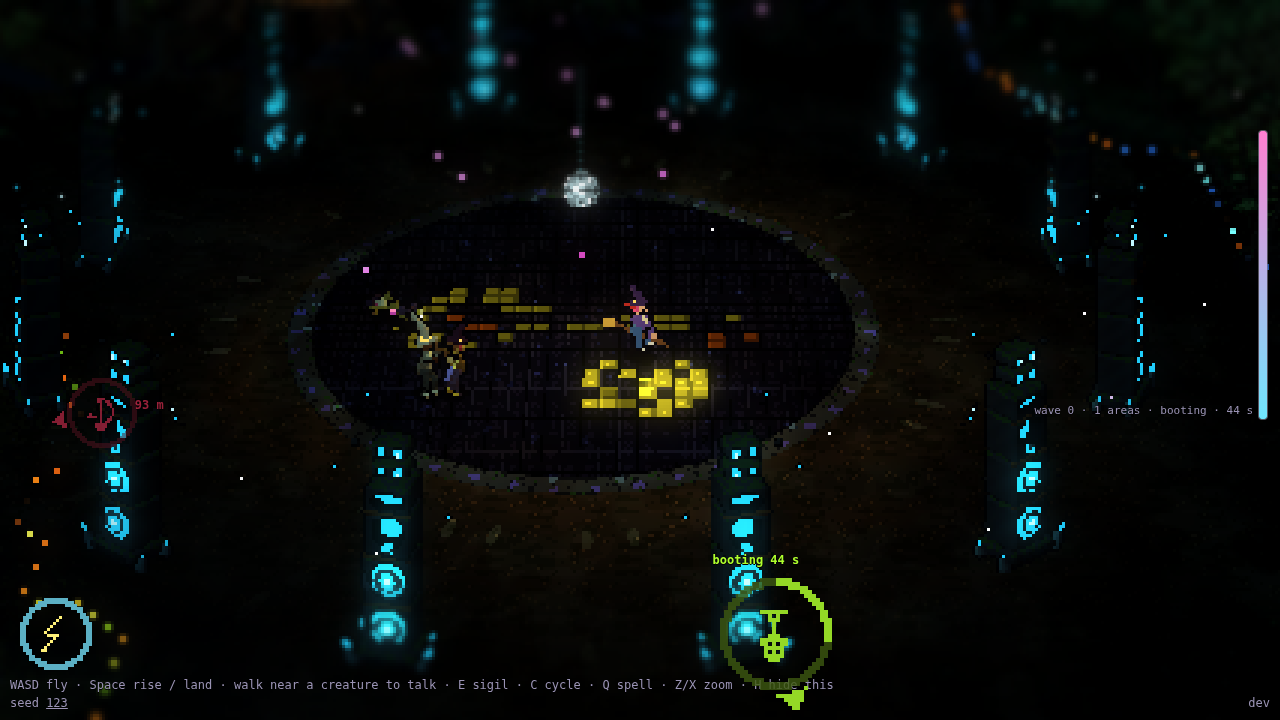
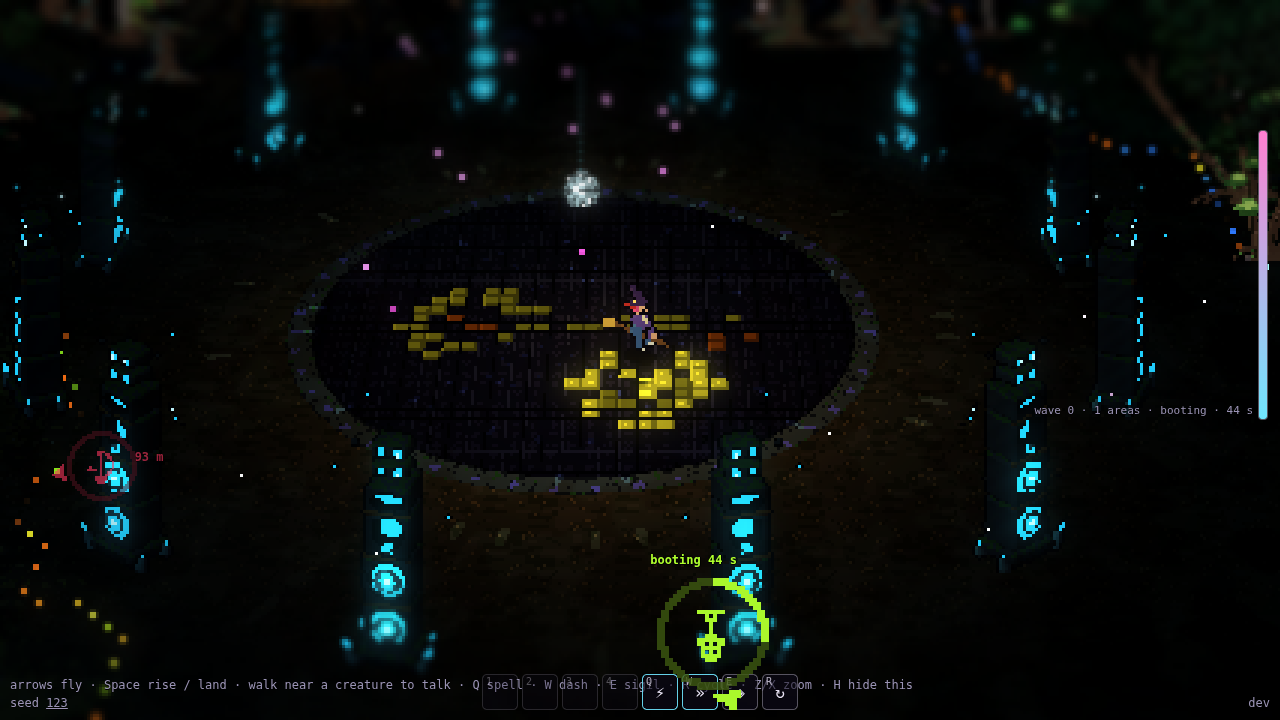
Party witches: twirl and broom limbo (#41), chat bubbles, arriving from just off-screen; hanging party objects
The twirl (her partner twirled) and the broom limbo (holder and helper hold the
bar, a third free witch shuffles under it end to end every limboPass seconds)
join the pair activities; partners line up by the lead's pose. Chatting party
witches show small emoji bubbles, taking turns. They fly in from flyFrom 40 m
over 4 s, just off-screen. Party objects: the art's hanging pieces (lanterns,
a jar, fairy lights, a mirror ball) hang from a branch point in the nearest
crown by their hang anchor, as the caught balloon now does too, partyObjects.
hanging per area; pointLight rgb "neon" takes the piece's own neon. The art
already puts brooms down for the dances.

Claude-Session: https://claude.ai/code/session_01MR6jyHx6mcGYyfzATvhXK3

diff --git a/src/rules/partyWitches.ts b/src/rules/partyWitches.ts
@@ -22,7 +22,7 @@ export const ACTIVITIES: Activity[] = ["dance", "pair", "chat", "drink", "run", 
 /** The art's poses for each activity (art/witch.js WITCH_FOOT_POSES). */
 export const POSES: Record<Activity, string[]> = {
   dance: ["twoStep", "bounce", "shuffle", "spin", "headbang", "jump"],
-  pair: ["dancePair", "hug", "highFive", "holdHands", "conga", "drink"],
+  pair: ["dancePair", "hug", "highFive", "holdHands", "conga", "drink", "twirl", "limboHold"],
   chat: ["laugh"],
   drink: ["drink"],
   run: ["run"],
@@ -55,9 +55,14 @@ export interface PartyWitch {
   partner: number | null;
   /** In a pair, the one who leads (walks; the other keeps beside her). */
   lead: boolean;
+  /** The broom limbo's dancer: under the bar held by her partner (the holder) and the holder's helper. */
+  third?: boolean;
   /** Where she's heading on foot (running, wandering hand in hand). */
   tx: number; tz: number;
 }
+
+/** What the partner does in a pair whose lead does this (art/witch.js WITCH_PAIRS partnerPose). */
+export const PARTNER_POSE: Record<string, string> = { twirl: "twirled", limboHold: "limboHelp" };
 
 /** A player on foot near the floor, idling into the party. */
 export interface PlayerIdle { still: number; activity: Activity | null; pose: string | null; partner: number | null; until: number; facing: 1 | -1 }
@@ -115,8 +120,17 @@ function begin(s: PartyWitches, w: PartyWitch, time: number, floor: Floor, t: Tu
     for (const o of s.list) if (o !== w && free(o)) { const d = Math.hypot(o.x - w.x, o.z - w.z); if (d < bd) { bd = d; best = o; } }
     if (!best) a = "dance";
     else {
-      const pose = pick(r, POSES[a]), until = time + duration(r, t, a);
-      for (const [m, lead] of [[w, true], [best, false]] as const) Object.assign(m, { activity: a, pose, until, partner: (lead ? best : w).id, lead });
+      let pose = pick(r, POSES[a]);
+      const until = time + duration(r, t, a);
+      // The broom limbo needs a third witch to dance under the bar; without one, they dance together.
+      let dancer: PartyWitch | null = null;
+      if (pose === "limboHold") {
+        let dd = P.pairRange;
+        for (const o of s.list) if (o !== w && o !== best && free(o)) { const d = Math.hypot(o.x - w.x, o.z - w.z); if (d < dd) { dd = d; dancer = o; } }
+        if (!dancer) pose = "dancePair";
+      }
+      for (const [m, lead] of [[w, true], [best, false]] as const) Object.assign(m, { activity: a, pose: lead ? pose : PARTNER_POSE[pose] ?? pose, until, partner: (lead ? best : w).id, lead, third: false });
+      if (dancer) Object.assign(dancer, { activity: a, pose: "limbo", until, partner: w.id, lead: false, third: true, facing: w.facing, away: false, since: time });
       // Face each other; holding hands they stand side by side facing us; a conga is a line, same way round.
       w.facing = best.x >= w.x ? 1 : -1;
       best.facing = pose === "conga" ? w.facing : (w.facing === 1 ? -1 : 1);
@@ -132,6 +146,8 @@ function begin(s: PartyWitches, w: PartyWitch, time: number, floor: Floor, t: Tu
 /** Let go of a pair (both pick something new when it's their turn). */
 function release(s: PartyWitches, w: PartyWitch, time: number): void {
   if (w.partner === null) return;
+  // A limbo holder lets her dancer go too.
+  for (const o of s.list) if (o.third && o.partner === w.id) { o.partner = null; o.third = false; o.until = Math.min(o.until, time); }
   const o = s.list.find(p => p.id === w.partner);
   if (o && o.partner === w.id) { o.partner = null; o.until = Math.min(o.until, time); }
   w.partner = null;
@@ -140,7 +156,7 @@ function release(s: PartyWitches, w: PartyWitch, time: number): void {
 /** Where a partner stands beside the one who leads. */
 export function pairOffset(pose: string, facing: 1 | -1, t: Tuning): { dx: number; dz: number } {
   const g = t.partyWitches.pairGap;
-  return pose === "conga" ? { dx: -facing * g * 1.1, dz: 0.05 } : { dx: facing * g, dz: 0 };
+  return pose === "conga" ? { dx: -facing * g * 1.1, dz: 0.05 } : pose === "limboHold" ? { dx: facing * g * 2.6, dz: 0 } : { dx: facing * g, dz: 0 };
 }
 
 /**
@@ -185,6 +201,12 @@ export function stepPartyWitches(s: PartyWitches, areas: { key: string; x: numbe
       const ang = time * P.lapSpeed + w.id;
       w.x = floor.x + Math.cos(ang) * floor.radius * 0.6; w.z = floor.z + Math.sin(ang) * floor.radius * 0.6;
       w.y = P.flyHeight * 0.7 * Math.max(0, up); w.facing = -Math.sin(ang) >= 0 ? 1 : -1; w.away = Math.cos(ang) > 0.5;
+    } else if (w.third && w.partner !== null) {
+      // The limbo dancer shuffles along under the bar, from the holder's end to the helper's and round again.
+      const o = s.list.find(p => p.id === w.partner);
+      if (!o || o.pose !== "limboHold") { w.partner = null; w.third = false; continue; }
+      const off = pairOffset("limboHold", o.facing, t), k = ((time - w.since) / P.limboPass) % 1;
+      w.x = o.x + off.dx * (0.15 + 0.7 * k); w.z = o.z + 0.35; w.facing = o.facing;
     } else if (w.partner !== null && w.partner >= 0) {
       const o = s.list.find(p => p.id === w.partner);
       if (!o || o.partner !== w.id) { w.partner = null; continue; }
@@ -224,9 +246,9 @@ export function stepPartyWitches(s: PartyWitches, areas: { key: string; x: numbe
       for (const o of s.list) if (free(o)) { const d = Math.hypot(o.x - p.x, o.z - p.z); if (d < bd) { bd = d; best = o; } }
       if (!best) a = "dance";
       else {
-        const pose = a === "pair" ? pick(r, POSES.pair.filter(q => q !== "holdHands" && q !== "conga")) : "laugh", until = time + duration(r, t, a);
+        const pose = a === "pair" ? pick(r, POSES.pair.filter(q => q !== "holdHands" && q !== "conga" && q !== "limboHold")) : "laugh", until = time + duration(r, t, a);
         I.facing = best.x >= p.x ? 1 : -1;
-        Object.assign(best, { activity: a, pose, until, partner: -1 - i, lead: false, facing: I.facing === 1 ? -1 : 1, away: false });
+        Object.assign(best, { activity: a, pose: PARTNER_POSE[pose] ?? pose, until, partner: -1 - i, lead: false, facing: I.facing === 1 ? -1 : 1, away: false });
         Object.assign(I, { activity: a, pose, until, partner: best.id });
         return;
       }

diff --git a/src/render/partyWitches.ts b/src/render/partyWitches.ts
@@ -17,12 +17,16 @@ import { SPRITE_UNIFORMS, SpriteBatch, type SpriteInstance } from "./sprites";
 /** How many different looks are drawn: party witches beyond that share them (each look is a set of sprites to draw). */
 export const LOOKS = 12;
 const PAIRS = Art.WITCH_PAIRS as Record<string, { meet: string; partner?: string; mirror: boolean; frame?: number }>;
-const DANCE = new Set(["twoStep", "bounce", "shuffle", "spin", "headbang", "jump", "dancePair", "conga"]);
+const DANCE = new Set(["twoStep", "bounce", "shuffle", "spin", "headbang", "jump", "dancePair", "conga", "twirl", "twirled", "limbo"]);
+const CHAT = ["🎉", "😆", "🍹", "💃", "🥳", "😂", "🎶", "✨", "🍕", "😎", "🙌", "🤭"];
 
 type WitchArt = PartyWitchArt & { atlas: Atlas };
 
 export class PartyWitchView {
   private batches = new Map<string, SpriteBatch>();
+  /** The chats' emoji bubbles (HTML over the canvas, lighter than her own conversations). */
+  private bubblePool: HTMLDivElement[] = [];
+  private v = new THREE.Vector3();
   /** Whether our witch is drawn here this frame (idling in a party pose), so the view leaves her out. */
   herIdle = false;
 
@@ -42,9 +46,32 @@ export class PartyWitchView {
     return fr[Math.floor(time * fps + phase * 7) % n];
   }
 
+  /** The chats: a small emoji over whoever's turn it is in each chatting pair, taking turns. */
+  bubbles(g: Game, time: number, camera: THREE.Camera, width: number, height: number): void {
+    let n = 0;
+    for (const w of g.partyWitches.list) {
+      if (w.state !== "floor" || w.activity !== "chat" || w.partner === null || n >= 8) continue;
+      const turn = Math.floor(time / 1.4 + (w.lead ? 0 : 0.5));
+      if ((turn + (w.lead ? 0 : 1)) % 2) continue; // their turn or their partner's
+      let el = this.bubblePool[n];
+      if (!el) {
+        el = document.createElement("div");
+        el.style.cssText = "position:absolute;transform:translate(-50%,-100%);font-size:13px;padding:1px 4px;border-radius:8px;background:rgba(255,255,255,.55);pointer-events:none;z-index:4";
+        document.body.appendChild(el); this.bubblePool.push(el);
+      }
+      this.v.set(w.x, 2.4, w.z).project(camera);
+      el.style.left = `${((this.v.x + 1) / 2) * width}px`; el.style.top = `${((1 - this.v.y) / 2) * height}px`;
+      const e = CHAT[(turn * 7 + w.id * 3) % CHAT.length];
+      if (el.textContent !== e) el.textContent = e;
+      el.style.display = this.v.z < 1 ? "" : "none";
+      n++;
+    }
+    for (let i = n; i < this.bubblePool.length; i++) this.bubblePool[i].style.display = "none";
+  }
+
   update(g: Game, time: number, visible: (x: number, z: number, w: number, h: number) => boolean): void {
     const per = new Map<string, { art: WitchArt; list: SpriteInstance[] }>(), bpm = g.tuning.beat.bpm, bt = beatTime(g.beat, time), R = SPRITE_UNIFORMS.uRight.value;
-    const placed = new Map<number, { x: number; z: number; frame: number; art: WitchArt; flip: boolean }>();
+    const placed = new Map<number, { x: number; z: number; frame: number; art: WitchArt; flip: boolean; pose: string }>();
     const put = (key: string, art: WitchArt, inst: SpriteInstance) => { let e = per.get(key); if (!e) per.set(key, (e = { art, list: [] })); e.list.push(inst); };
     const lookOf = (w: PartyWitch) => this.assets.partyWitchArt(w.seed % LOOKS);
     // Leads first, so a partner can line up with her.
@@ -59,7 +86,8 @@ export class PartyWitchView {
       else {
         fi = this.frameOf(art, w.pose, time, bpm, (w.id % 4) * 0.25, bt);
         // A partner lines up with her lead: their meeting anchors on the same pixel.
-        const pair = PAIRS[w.pose], lead = w.partner !== null && w.partner >= 0 && !w.lead ? placed.get(w.partner) : undefined;
+        // (By the lead's pose: a partner's own may differ: twirled, limboHelp.)
+        const lead = w.partner !== null && w.partner >= 0 && !w.lead && !w.third ? placed.get(w.partner) : undefined, pair = lead ? PAIRS[lead.pose] : undefined;
         if (pair && lead) {
           fi = this.frameOf(art, w.pose, time, bpm, 0, bt); // in step with her
           const la = art.anchors[lead.frame] ? lead : null, A = la ? lead.art.anchors[lead.frame]?.[pair.partner ?? pair.meet] : undefined, B = art.anchors[fi]?.[pair.meet];
@@ -72,7 +100,7 @@ export class PartyWitchView {
         }
       }
       const f = art.atlas.frames[fi];
-      placed.set(w.id, { x, z, frame: fi, art, flip });
+      placed.set(w.id, { x, z, frame: fi, art, flip, pose: w.pose });
       if (!visible(x, z, f.w * this.mpp, f.h * this.mpp)) continue;
       put(`pw-${w.seed % LOOKS}`, art, { x, y: w.y, z, frame: f, flip });
     }

diff --git a/src/rules/partyDressing.ts b/src/rules/partyDressing.ts
@@ -5,6 +5,7 @@
 // mirror ball stand on their poles); point lights from campfires and lanterns only, a few per area.
 // Everything is seeded from the area's cell, so it's the same each time. No drawing here.
 import { PARTY_BY_ID, PARTY_CLUSTERS, PARTY_LIGHT_NEONS, PARTY_OBJECTS } from "../../art/party.js";
+import { NEON } from "../../art/sigils.js";
 import type { ForestMap } from "./map";
 
 import type { Cell } from "./partition";
@@ -30,12 +31,16 @@ export interface Dressing {
   loose: Placed[];
   /** An escaped balloon caught up in a crown near here (the view hangs it from the nearest tree). */
   caught: Placed | null;
+  /** Lanterns, a jar, fairy lights or a mirror ball hanging from the trees near here (the view
+   *  hangs each from a branch point in the nearest tree's crown by its hang anchor). */
+  hanging: Placed[];
   /** The pieces whose light is real (campfires and lanterns: at most partyObjects.lightsPerArea), by their ref and place. */
   lights: Placed[];
 }
 
 /** Each piece that can be a loose one. */
 const POOL = DEFS.filter(d => (d.cls === "litter" || d.cls === "small" || d.cls === "balloon") && !d.hang);
+const HANGING = DEFS.filter(d => d.hang && d.cls !== "balloon" && d.id !== "balloon-caught");
 const SETS = DEFS.filter(d => d.cls === "set");
 
 /** A ref for a piece, its neon and balloons picked at random (Ed: random per placement). */
@@ -72,7 +77,7 @@ export function dressingOf(map: ForestMap, cell: Cell, t: Tuning): Dressing {
     return null;
   };
   const between = ([lo, hi]: number[]) => lo + Math.floor(r() * (hi - lo + 1));
-  const out: Dressing = { clusters: [], loose: [], caught: null, lights: [] };
+  const out: Dressing = { clusters: [], loose: [], caught: null, hanging: [], lights: [] };
   for (let i = 0, n = between(P.clusters); i < n; i++) {
     const s = spotFor(4);
     if (s) out.clusters.push({ id: PARTY_CLUSTERS[Math.floor(r() * PARTY_CLUSTERS.length)].id, ...s, mirror: r() < 0.5 });
@@ -82,9 +87,11 @@ export function dressingOf(map: ForestMap, cell: Cell, t: Tuning): Dressing {
     const s = spotFor(0.6, 0.05, 0.5);
     if (s) out.loose.push({ ref: refFor(pool[Math.floor(r() * pool.length)], r), ...s, flip: r() < 0.5 });
   }
+  const hangs = HANGING.filter(d => !t.partyObjects.exclude.includes(d.id));
+  for (let i = 0, n = hangs.length ? between(P.hanging) : 0; i < n; i++) { const s = spotFor(2, 0.1, 0.5); if (s) out.hanging.push({ ref: refFor(hangs[Math.floor(r() * hangs.length)], r), ...s, flip: r() < 0.5 }); }
   if (r() < P.caughtChance) { const s = spotFor(1, 0.2, 0.55); if (s) out.caught = { ref: `party:balloon-caught~${PALETTES[Math.floor(r() * PALETTES.length)]}`, ...s, flip: r() < 0.5 }; }
   // Real lights: the loose campfires and lanterns first (the clusters' own are added by the view, which knows their layout), at most lightsPerArea.
-  for (const p of out.loose) { const def = partyDef(p.ref); if (def && (def.pointLight || LANTERNS.has(def.id)) && !def.cold && out.lights.length < P.lightsPerArea) out.lights.push(p); }
+  for (const p of [...out.loose, ...out.hanging]) { const def = partyDef(p.ref); if (def && (def.pointLight || LANTERNS.has(def.id)) && !def.cold && out.lights.length < P.lightsPerArea) out.lights.push(p); }
   return out;
 }
 
@@ -92,7 +99,11 @@ export function dressingOf(map: ForestMap, cell: Cell, t: Tuning): Dressing {
 export function lightOf(ref: string, t: Tuning): { rgb: number[]; radius: number; height: number } | null {
   const def = partyDef(ref);
   if (!def || def.cold) return null;
-  if (def.pointLight) return def.pointLight;
+  if (def.pointLight) {
+    // "neon": the light of the neon this one was baked in.
+    const rgb = def.pointLight.rgb as unknown;
+    return rgb === "neon" ? { ...def.pointLight, rgb: (NEON as Record<string, number[]>)[ref.split("@")[1]?.split("~")[0] ?? "pink"] ?? NEON.pink } : def.pointLight;
+  }
   return LANTERNS.has(def.id) ? { rgb: [255, 186, 96], radius: t.partyObjects.lanternReach, height: 1.4 } : null;
 }
 

diff --git a/src/render/artBuild.ts b/src/render/artBuild.ts
@@ -164,7 +164,7 @@ export type ArtJob = { kind: "type"; id: number; style: Style; seed: number; K: 
   | { kind: "partyObjects"; id: string; style: Style };
 
 /** The party objects in their atlas, by ref ("party:<id>[@<neon>][~<palette>]"): frames (more than one: animated), ground point, decal; and each cluster's layout. */
-export interface PartyArt { pieces: Record<string, { frames: number[]; originX: number; originY: number; decal: boolean }>; layouts: Record<string, { plain: ScenePlace[]; mirror: ScenePlace[] }> }
+export interface PartyArt { pieces: Record<string, { frames: number[]; originX: number; originY: number; decal: boolean; /** Where it hangs from (hanging pieces): pixels from its top-left. */ hang?: { x: number; y: number } }>; layouts: Record<string, { plain: ScenePlace[]; mirror: ScenePlace[] }> }
 
 /** A party witch's frames: each foot pose's frames facing us (the view mirrors them), her hover
  *  frames for flying (towards and away), and each frame's anchors in its sprite's pixels (pair, back, cup, hand, hatTip). */
@@ -260,7 +260,7 @@ function decorSprites(st: Style, mk: MakeCanvas): { sprites: Baked[]; decor: Dec
 
 function partyObjectSprites(st: Style, mk: MakeCanvas): { sprites: Baked[]; party: PartyArt } {
   const sprites: Baked[] = [], party: PartyArt = { pieces: {}, layouts: {} };
-  type Def = { id: string; cls: string; light: string | null; frames: number };
+  type Def = { id: string; cls: string; light: string | null; frames: number; hang?: boolean };
   const refs = new Set<string>(), palettes = ["neon", "pastel", "metallic", "mixed"];
   for (const d of Art.PARTY_OBJECTS as Def[]) {
     const neons = d.light === "neon" ? (Art.PARTY_LIGHT_NEONS as string[]).map(n => "@" + n) : [""];
@@ -273,10 +273,11 @@ function partyObjectSprites(st: Style, mk: MakeCanvas): { sprites: Baked[]; part
     for (const p of party.layouts[c.id].plain) refs.add(p.ref);
   }
   for (const ref of refs) {
-    const piece = Art.scenePiece(ref, st) as { sprite: { whole: unknown; origin: { x: number; y: number } }; colours: unknown; decal: boolean; def?: { frames?: number } };
+    const piece = Art.scenePiece(ref, st) as { sprite: { whole: unknown; origin: { x: number; y: number }; anchors?: Record<string, { x: number; y: number }> }; colours: unknown; decal: boolean; def?: { frames?: number } };
+    const hang = piece.sprite.anchors?.hang ?? piece.sprite.anchors?.tie;
     const id = ref.replace(/^party:/, "").split("~")[0].split("@")[0], n = (Art.PARTY_BY_ID as Record<string, { frames: number }>)[id]?.frames ?? 1;
     if (n <= 1) {
-      party.pieces[ref] = { frames: [sprites.push(Art.bake(piece.sprite.whole, piece.colours, st, "none", mk) as Baked) - 1], originX: piece.sprite.origin.x, originY: piece.sprite.origin.y, decal: piece.decal };
+      party.pieces[ref] = { frames: [sprites.push(Art.bake(piece.sprite.whole, piece.colours, st, "none", mk) as Baked) - 1], originX: piece.sprite.origin.x, originY: piece.sprite.origin.y, decal: piece.decal, ...(hang ? { hang } : {}) };
       continue;
     }
     // Animated (the fires): each frame is its own size with its own origin, so they're laid into one

diff --git a/src/rules/partyWitches.test.ts b/src/rules/partyWitches.test.ts
@@ -30,7 +30,8 @@ describe("party witches (Ed, 2026-10-04)", () => {
         seen.add(w.activity);
         if (w.state !== "floor") continue;
         if (w.activity !== "fly") expect(Math.hypot(w.x - floor.x, w.z - floor.z)).toBeLessThanOrEqual(floor.radius * P.floorShare + 1e-6);
-        if (w.partner !== null && w.partner >= 0) { const o = s.list.find(p => p.id === w.partner)!; expect(o.partner).toBe(w.id); }
+        if (w.partner !== null && w.partner >= 0 && !w.third) { const o = s.list.find(p => p.id === w.partner)!; expect(o.partner).toBe(w.id); }
+        if (w.third) { const o = s.list.find(p => p.id === w.partner)!; expect(o.pose).toBe("limboHold"); }
       }
     });
     for (const a of ["dance", "pair"]) expect(seen.has(a)).toBe(true);
@@ -47,6 +48,7 @@ describe("party witches (Ed, 2026-10-04)", () => {
     run(s, areas(10), 200, 0, [], () => {
       for (const w of s.list) {
         if (w.state !== "floor" || w.partner === null || w.partner < 0 || w.lead || w.activity !== "pair") continue;
+        if (w.third) continue;
         const o = s.list.find(p => p.id === w.partner)!, off = pairOffset(o.pose, o.facing, t);
         if (o.pose !== "holdHands" && Math.hypot(w.x - (o.x + off.dx), w.z - (o.z + off.dz)) < 0.05) checked++;
       }
@@ -69,5 +71,11 @@ describe("party witches (Ed, 2026-10-04)", () => {
     expect(s2.players[0].activity).toBeNull();
     run(s2, areas(3), P.idleAfter + 5, 20, [{ ...p, onFoot: false }]);
     expect(s2.players[0].activity).toBeNull();
+  });
+
+  it("the twirl and the broom limbo: partners do the partner's pose, and a third shuffles under the bar", () => {
+    const s = newPartyWitches(11), seen = new Set<string>();
+    run(s, areas(14), 400, 0, [], () => { for (const w of s.list) if (w.state === "floor") seen.add(w.pose); });
+    for (const p of ["twirl", "twirled", "limboHold", "limboHelp", "limbo"]) expect(seen.has(p)).toBe(true);
   });
 });

diff --git a/src/rules/tuning.ts b/src/rules/tuning.ts
@@ -127,8 +127,8 @@ export interface Tuning {
   /** How mist, far haze and canopy dapple are drawn: smooth gradients, or dithered pixel steps. */
   fx: "smooth" | "pixel";
   moonbeams: number;
-  partyObjects: { on: boolean; clusters: number[]; loose: number[]; setChance: number; caughtChance: number; lightsPerArea: number; lanternReach: number; exclude: string[] };
-  partyWitches: { max: number; idleAfter: number; idleReach: number; activityMin: number; activityMax: number; weights: Record<string, number>; arriveTime: number; flyFrom: number; flyHeight: number; runSpeed: number; walkSpeed: number; lapSpeed: number; pairRange: number; pairGap: number; floorShare: number; debugExtra: number };
+  partyObjects: { on: boolean; clusters: number[]; loose: number[]; setChance: number; caughtChance: number; hanging: number[]; lightsPerArea: number; lanternReach: number; exclude: string[] };
+  partyWitches: { max: number; idleAfter: number; idleReach: number; activityMin: number; activityMax: number; weights: Record<string, number>; arriveTime: number; flyFrom: number; flyHeight: number; runSpeed: number; walkSpeed: number; lapSpeed: number; pairRange: number; pairGap: number; limboPass: number; floorShare: number; debugExtra: number };
   speakerLasers: { on: boolean; tilt: number; sweep: number; sweepBeats: number; length: number; opacity: number };
   find: { on: boolean; eyeshine: { range: number; strength: number; blink: number }; lightFloor: number; rim: number; ambient: number; moonHue: number; moonSat: number };
   trunkFade: { metres: number; share: number; dither: boolean; lightFloor: number; rim: number; crownShare: number };

diff --git a/src/render/partyObjects.ts b/src/render/partyObjects.ts
@@ -84,11 +84,16 @@ export class PartyObjectsView {
       });
       d.loose.forEach((p, i) => put(p.ref, p.x, p.z, p.flip, 200 + i));
       for (const p of d.lights) lights.push(light(p.x, p.z, lightOf(p.ref, t)!, time, since(time, from)));
-      if (d.caught) {
-        // Caught up in the nearest tree's crown, hanging from its tie.
-        const tree = g.forest.treesNear(d.caught.x, d.caught.z, 10).sort((a, b) => Math.hypot(a.x - d!.caught!.x, a.z - d!.caught!.z) - Math.hypot(b.x - d!.caught!.x, b.z - d!.caught!.z))[0];
-        if (tree) put(d.caught.ref, tree.x + 0.6, tree.z + 0.4, d.caught.flip, 400, 3.5 + hash2(Math.round(tree.x), Math.round(tree.z), 5) * 2);
-      }
+      // Hanging things, and the caught balloon: from a branch point in the nearest tree's crown, their
+      // hang (or tie) anchor at that height, a little out from the trunk towards us; none if no tree is near.
+      [...d.hanging, ...(d.caught ? [d.caught] : [])].forEach((p, i) => {
+        const a = art.pieces[p.ref];
+        const tree = g.forest.treesNear(p.x, p.z, 10).sort((u, v) => Math.hypot(u.x - p.x, u.z - p.z) - Math.hypot(v.x - p.x, v.z - p.z))[0];
+        if (!a || !tree) return;
+        const k = hash2(Math.round(tree.x * 7) + i, Math.round(tree.z * 7), 5), side = k < 0.5 ? -1 : 1;
+        const branch = 3 + hash2(i, Math.round(tree.x), 6) * 2.5, below = ((a.originY - (a.hang?.y ?? 0)) * mpp);
+        put(p.ref, tree.x + side * (0.6 + k), tree.z + 0.5, p.flip, 400 + i, branch - below);
+      });
     }
     this.upright.set(upright);
     this.flat!.set(flat);

diff --git a/src/render/view.ts b/src/render/view.ts
@@ -1249,6 +1249,7 @@ export class View {
     wyy += this.rideOff * (1 - this.seatK * this.seatK * (3 - 2 * this.seatK));
     const wframe = this.assets.witch.frames[wf], hatTop = wyy + wframe.h * this.mpp;
     this.partyWitchView.update(g, time, (x, z, ww, hh) => this.inView(x, z, ww, hh, 4));
+    this.partyWitchView.bubbles(g, time, this.camera, this.canvas.clientWidth || window.innerWidth, this.canvas.clientHeight || window.innerHeight);
     // Idling into the party, she's drawn in her party pose there instead.
     this.witchBatch.set(this.partyWitchView.herIdle || hidden ? [] : [{ x: wx, y: wyy + groundHeight(wx, wz), z: wz, frame: wframe, flip: w.seated ? false : w.facing < 0 }]);
     // Where she is on screen (low-res pixels) and how far from the camera, for the occluder fade.
